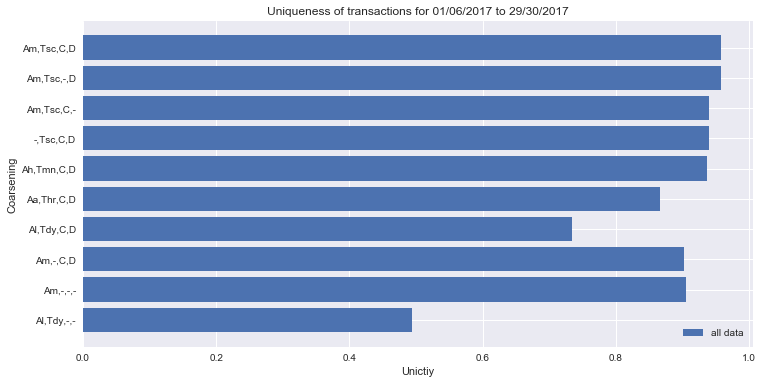
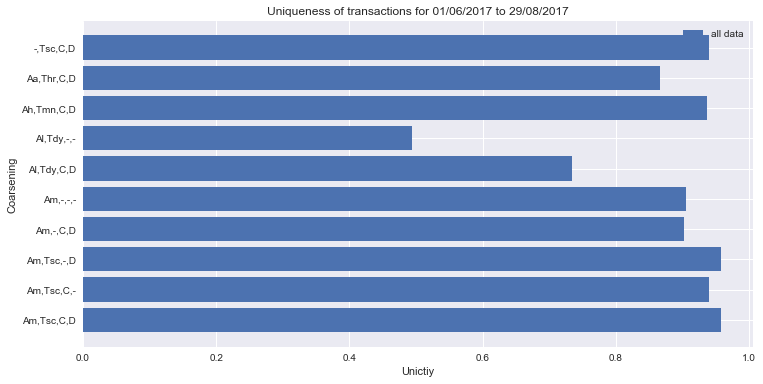
Add files via upload

diff --git a/calculate_uniqueness_by_datapoint_backup.py b/calculate_uniqueness_by_datapoint_backup.py
@@ -1,0 +1,140 @@
+# -*- coding: utf-8 -*-
+"""
+Created on Mon Sep  4 16:36:02 2017
+
+@author: admin
+"""
+from tqdm import tqdm 
+import datetime
+import pandas as pd
+
+#LOAD DATA
+start_date = datetime.date(2017,6,1)
+end_date = datetime.date(2017,8,29)
+date_list = pd.date_range(start_date,end_date,freq="1D")
+
+#FUNCTIONS
+def coarsen_time(timestamp,degree):
+    '''Coarsen time by the degree `degree`.
+    Degree is either 'd' (day), 'm' (minute), 'h' (hour), 's' (second), or False (exclude)
+    '''
+    if degree == 'd':
+        return timestamp[0:10]
+    elif degree == 'h':
+        return timestamp[0:13]
+    elif degree == 'm':
+        return timestamp[0:16]
+    elif degree == 's':
+        return timestamp[0:19]
+    else:
+        return None
+        
+unknown_curr = set()
+def coarsen_amount(amount,degree,currency):
+    '''Coarsen amount by the degree `degree`, which depends on the strength of\
+        the `currency`. 
+        `degree` can take:
+        'm'" max, 'h': High, 'm': Medium, 'l': low
+        
+        Note that strength is not checked online, so it may not\
+        be accurate if the strength of a currency has changed dramatically
+        
+        Note that rounding may not be perfect owing to floating point issues
+    '''
+    #Strength of currencies in 2014, I'm going to check these (I think XRP is \
+    # now about as strong as the pound)
+    
+    strong_curr = ('BTC', 'XAG','XAU', 'XPT')
+    med_curr = ('CNY','EUR','USD','AUD','GBP','JPY') #<- XRP HAS BECOME STRONGER SINCE 2015 WHEN THE ORIGINAL PAPER WAS PUBLISHED
+    weak_curr = ('CCK','STR','KRW','MTL','XRP')
+    
+    lookup_strong = {'h': 1e-3, 'a': 1e-2, 'l': 1e-1}
+    lookup_med = {'h': 1e1, 'a': 1e2, 'l': 1e3}
+    lookup_weak = {'h': 1e5, 'a': 1e6, 'l': 1e7}
+    if degree is False:
+        return None
+    elif degree == 'm':
+        return amount
+    else:
+        if currency in strong_curr:
+            prec = lookup_strong[degree]
+        elif currency in med_curr:
+            prec = lookup_med[degree]
+        elif currency in weak_curr:
+            prec = lookup_weak[degree]
+        else:
+            unknown_curr.add(currency)
+            #print("Unknown currency {}".format(currency))
+            prec = 1
+    
+        coarse_amount = float(int(round(amount/prec)))*prec
+
+        return coarse_amount
+
+files = []
+for day in date_list:
+    #print("Current date: {}".format(day.strftime("%Y-%m-%d")))
+    this_day = day.strftime("%Y-%m-%d")
+    next_day = (day+datetime.timedelta(days=1)).strftime("%Y-%m-%d")
+    files.append("Ripple_transactions_{}_to_{}.csv".format(this_day,next_day))
+
+def count_transactions(files,a_res,include_c,t_res,include_d):
+    '''Create dictionary from a list of file names `file` \
+        with keys being senders and datapoints by tuple \
+        (Amount, Currency, Time, Destination)'''
+    number_of_transactions_by_datapoint = {}
+    
+    for file in tqdm(files):
+        i = 0
+        for line in csv.reader(open(file,'r')):
+            if i == 0:
+                header = line
+            else:
+                sender = line[header.index('Sender')]
+                
+                curr = line[header.index('Currency')]
+                
+                if curr == 'XRP':
+    
+                    amount = float(line[header.index('Amount')])*1e-6
+                else:
+                    amount = float(line[header.index('Amount')])
+                
+                amount = coarsen_amount(amount,a_res,curr)   #<- COARSENING 
+                time = coarsen_time(line[header.index('Timestamp')],t_res)       #<- COARSENING
+                if include_d:
+                    destination = line[header.index('Destination')]
+                else:
+                    destination = None
+                if not include_c:
+                    curr = None
+                datapoint = tuple([amount,curr,time,destination])
+                
+                if datapoint not in number_of_transactions_by_datapoint.keys():
+                    number_of_transactions_by_datapoint[datapoint]=0
+                number_of_transactions_by_datapoint[datapoint] = number_of_transactions_by_datapoint[datapoint]+1
+                
+            i+=1
+    return number_of_transactions_by_datapoint
+
+experiments = {"Am,Tsc,C,D":['m',True,'s',True],
+               "Am,Tsc,-,D":['m',False,'s',True],
+               "Am,Tsc,C,-":['m',True,'s',False],
+               "-,Tsc,C,D": [False,True,'s',True],
+               "Ah,Tmn,C,D":['h',True,'m',True],
+               "Aa,Thr,C,D":['a',True,'h',True],
+               "Al,Tdy,C,D":['l',True,'d',True],
+               "Am,-,C,D":['m',True,False,True],
+               "Am,-,-,-":['m',False,False,False],
+               "Al,Tdy,-,-":['l',False,'d',False]
+              }
+experiments_test = {"Am,Tsc,C,D":['m',True,'s',True],
+               "Am,Tsc,C,-":['m',True,'s',False],
+               "-,Tsc,C,D":[False,True,'s',True],
+               }
+def calculate_uniqueness(data):
+    unique_points = 0
+    for point in data:
+        if data[point]==1:
+            unique_points+=1
+    return unique_points/len(data)
